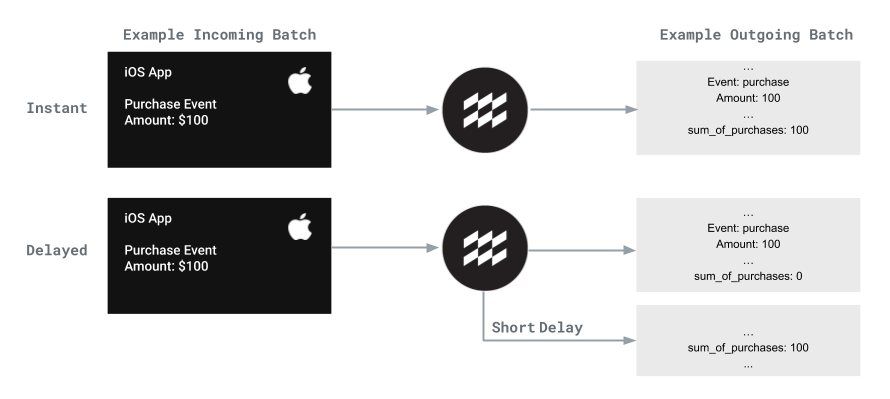
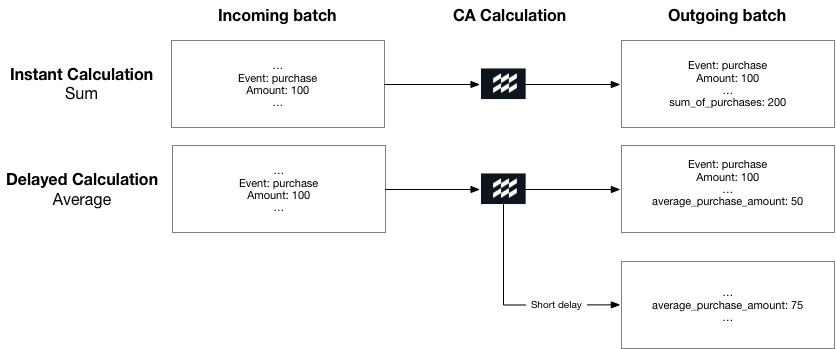
updated delaye dimage (#977)
*  updated delaye dimage

* fixed image

diff --git a/src/pages/guides/platform-guide/calculated-attributes/index.md b/src/pages/guides/platform-guide/calculated-attributes/index.md
@@ -103,8 +103,8 @@ All calculation speeds here are *after* the values have been initialized. Settin
 
 ![](/images/ca-delayed-flow.png)
 
-Calculations are either **instant** or **delayed**.  Instant calculations are evaluated immediately and updated values are included in the outgoing event batch.
-Delayed calculations are evaluated with a small delay (usually a few minutes) and updated values are included in the *next* outgoing event batch **and** to outputs connected to a special feed input named "Calculated Attributes". As delayed values are computed, they will be sent downstream to any output connected to this input. This input will appear once you have activated a calculated attribute. When a new connection is made to this input the downstream system is synced by sending updated CA values for users who have not been seen since their delayed CAs were calculated.
+Calculations are either **instant** or **delayed**.  Instant calculations are evaluated immediately and updated values are included in the very same outgoing event batch.
+Delayed calculations are evaluated with a small delay (usually a few minutes) and updated values are included in the *next* outgoing event batch **and** to outputs connected to a special feed input named "Calculated Attributes". As delayed values are computed, they will be sent downstream to any output connected to this input. This input will appear once you have activated a calculated attribute. When a new connection is made to this input, CA values for users who have not been seen since their delayed CAs were calculated will be sent.
 
 <aside>
  Be mindful of which downstream systems are connected to the "Calculated Attributes" input to avoid unintentional increases in API calls.
